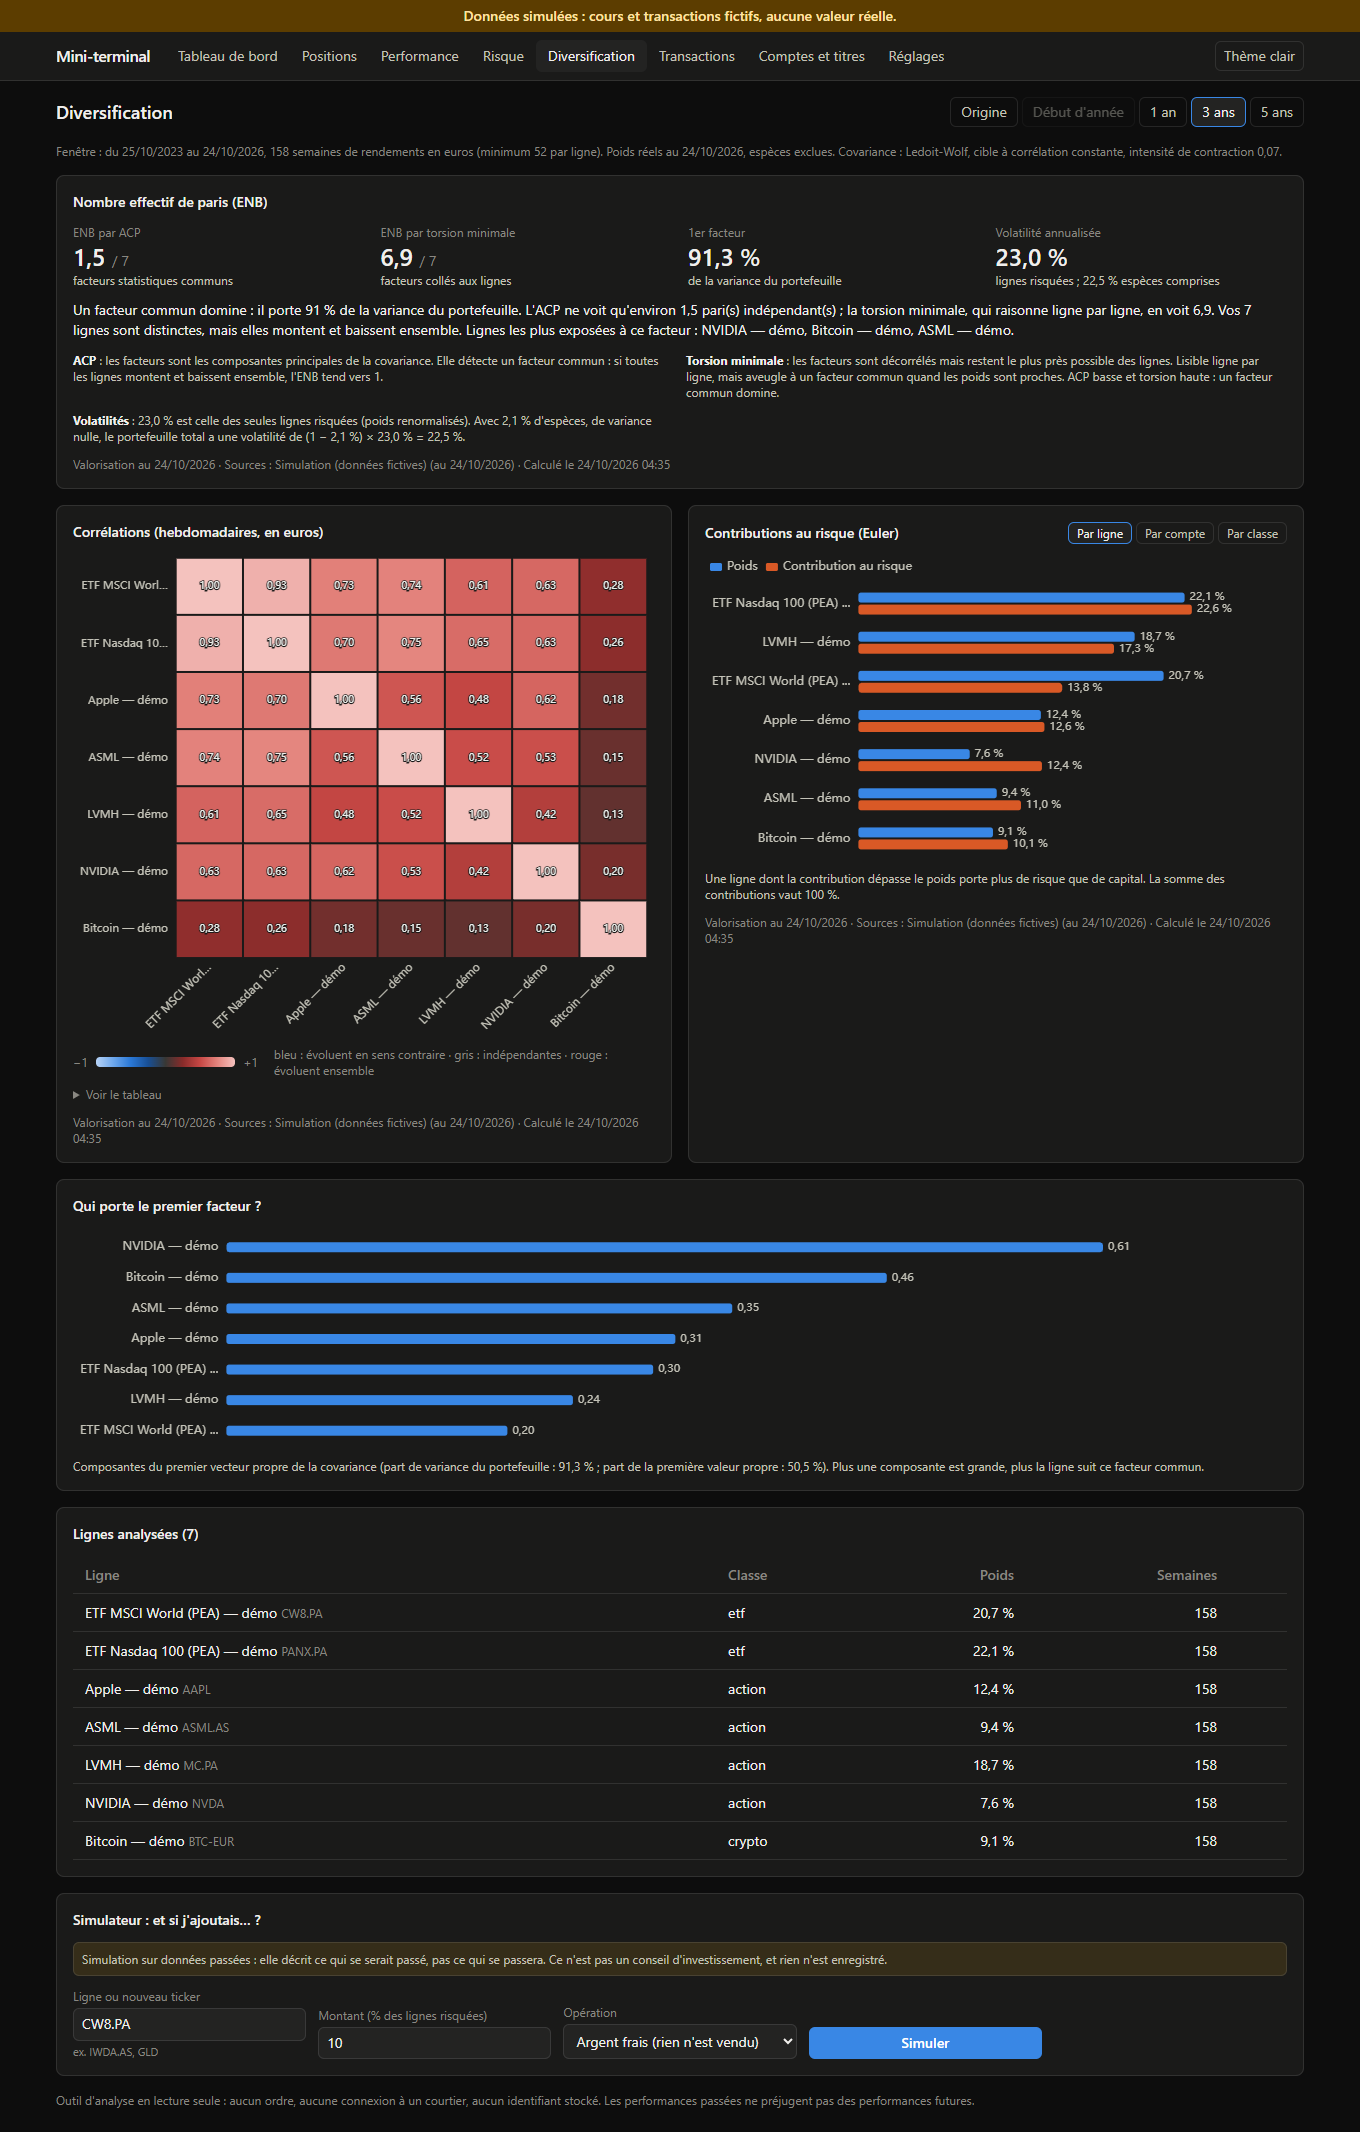
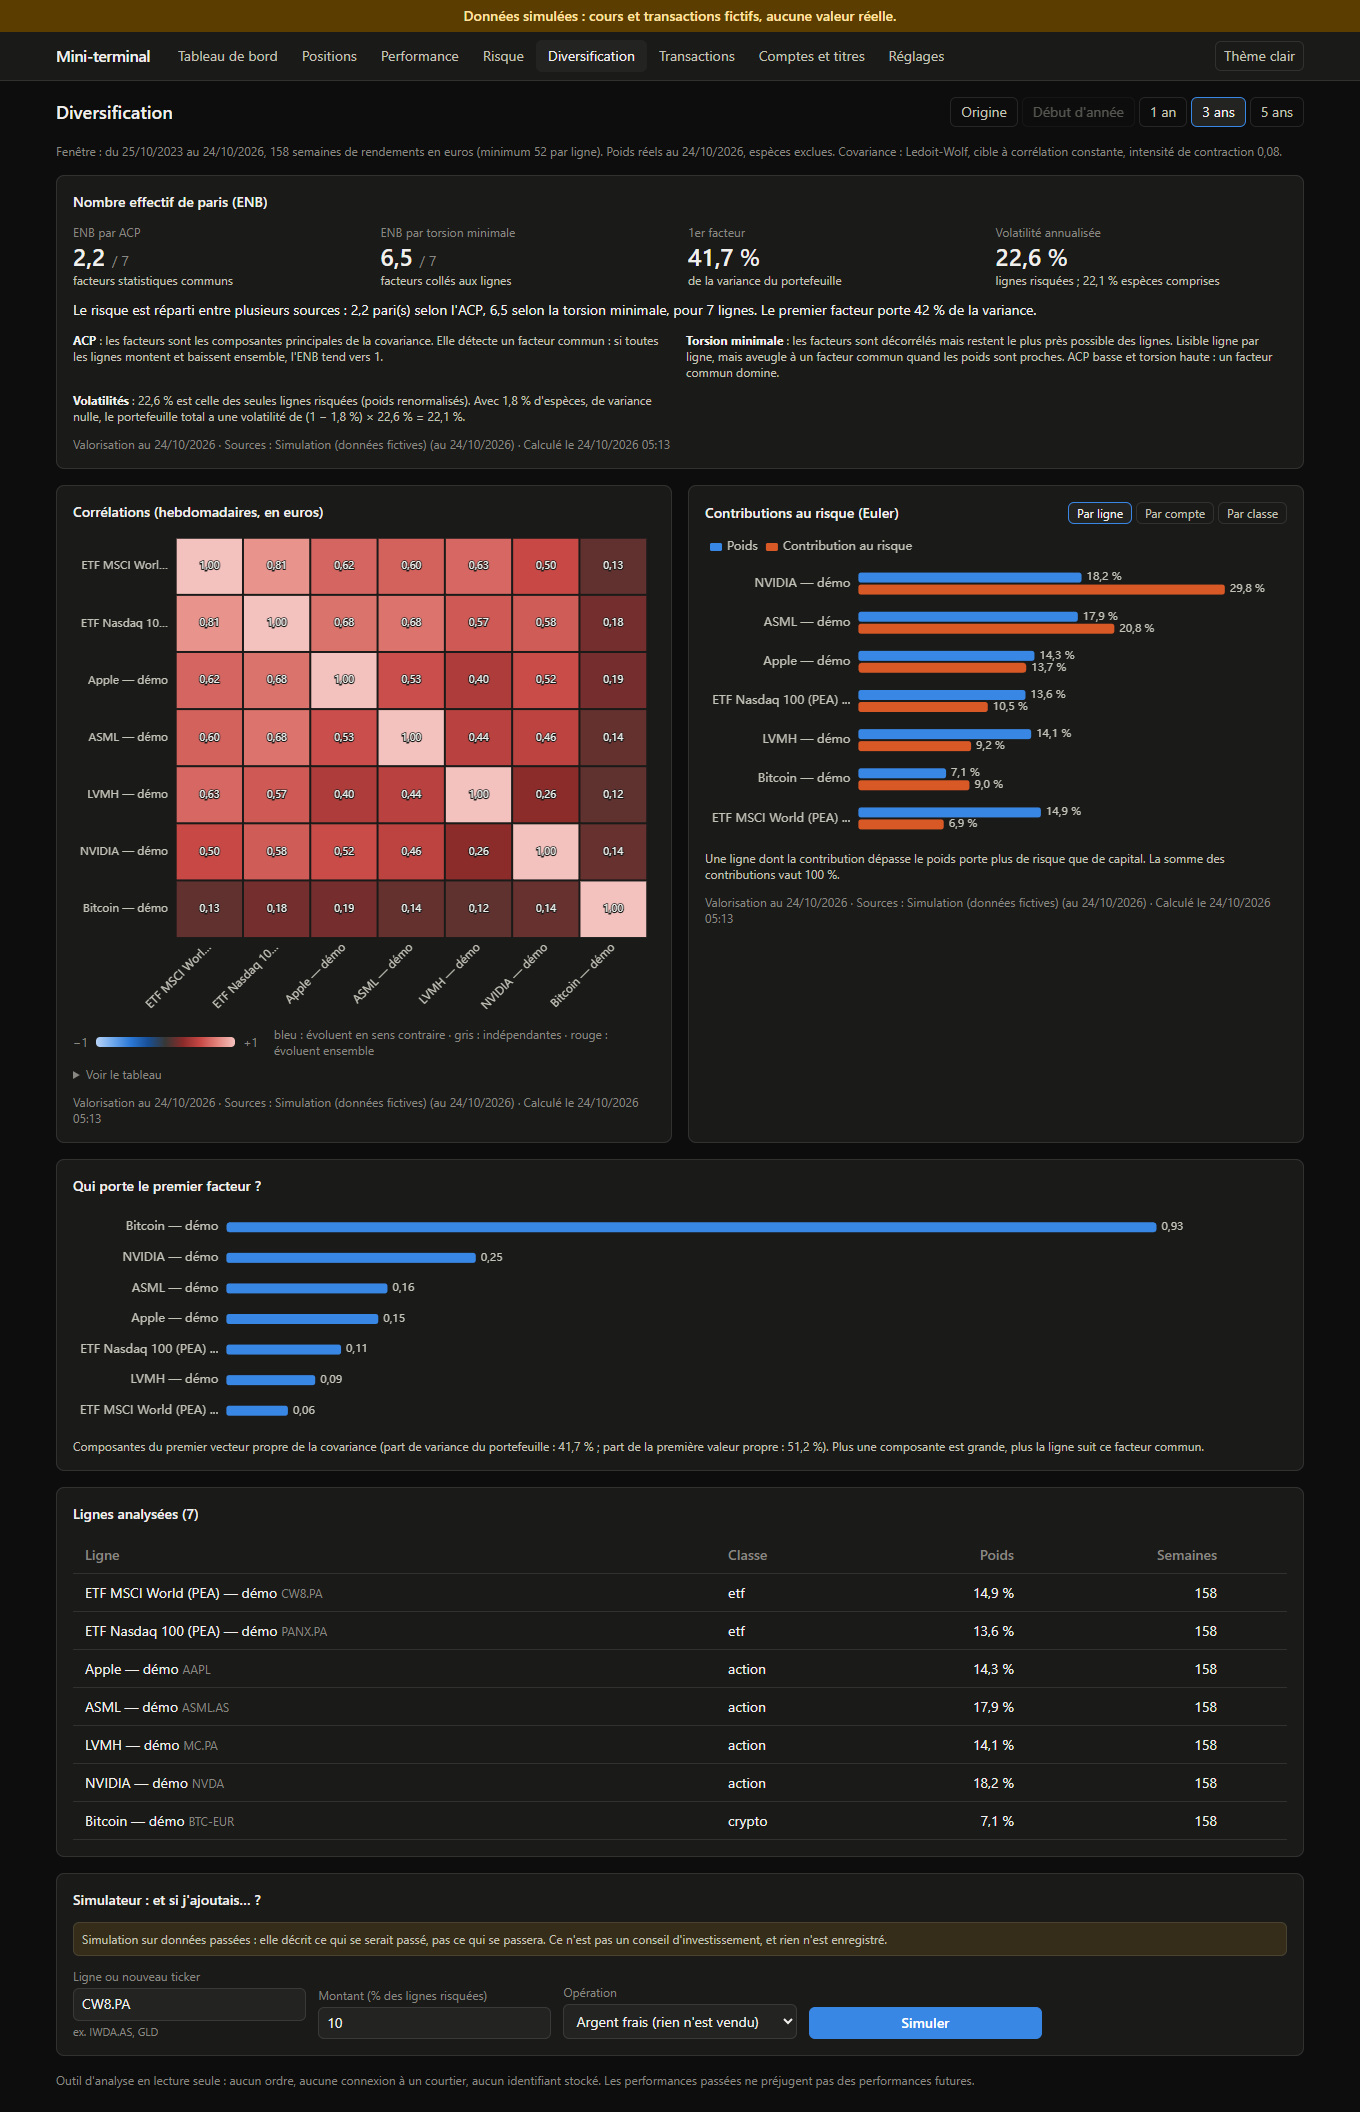
Démo : modèle à deux facteurs (marché mondial + technologie)
Le modèle à un facteur surestimait la corrélation Nasdaq / MSCI World (0,96).
Un facteur technologie indépendant, tiré d'un générateur séparé, la ramène à
0,86 en hebdomadaire EUR (0,85 à 0,90 en réalité). Profil à trois paramètres
inchangé au bit près (rapport legacy). Nouvelle graine selon les mêmes
critères (56). Tests : corrélation théorique retrouvée sur un long
échantillon, structure des corrélations de la démo. Captures régénérées.

diff --git a/terminal/marketdata/simulated.py b/terminal/marketdata/simulated.py
@@ -1,7 +1,7 @@
 """
 Fournisseur simulé : tests et mode démo, sans réseau.
 
-Les cours viennent de `data.demo_prices` (modèle à un facteur, queues
+Les cours viennent de `data.demo_prices` (modèle à deux facteurs, queues
 épaisses). Ils sont générés une fois sur une fenêtre fixe, puis découpés :
 le cours d'un ticker à une date donnée ne dépend donc ni de la date de la
 requête ni des autres tickers demandés. Toutes les séries portent
@@ -25,19 +25,21 @@ from .base import InstrumentInfo, MarketDataProvider, PriceSeries, clean_series
 SIM_START = "2015-01-01"
 SIM_END = "2030-12-31"
 
-# Profils de long terme (rendement espéré mu, volatilité sigma, bêta au facteur commun de
-# volatilité 20 %). Les ETF d'un même indice ont un bêta qui porte presque toute leur
-# variance : corrélation hebdomadaire d'environ 0,96, comme dans la réalité.
+# Profils de long terme (rendement espéré mu, volatilité sigma, bêta au marché mondial, bêta au
+# facteur technologie ; les deux facteurs sont indépendants, de volatilité 20 %). Le facteur
+# technologie sépare le Nasdaq du MSCI World : corrélation hebdomadaire en EUR d'environ 0,86,
+# au lieu de 0,96 avec un seul facteur (0,85 à 0,90 en réalité). Deux ETF d'un même indice
+# gardent une corrélation supérieure à 0,9.
 SIM_PROFILE = {
-    "QQQ":     (0.14, 0.22, 1.10),
-    "PANX.PA": (0.13, 0.23, 1.14),
-    "IWDA.AS": (0.09, 0.15, 0.75),
-    "CW8.PA":  (0.09, 0.15, 0.75),
-    "AAPL":    (0.15, 0.28, 1.10),
-    "MC.PA":   (0.09, 0.27, 0.80),
-    "ASML.AS": (0.14, 0.35, 1.30),
-    "NVDA":    (0.30, 0.50, 1.60),
-    "BTC-EUR": (0.30, 0.65, 0.60),
+    "QQQ":     (0.14, 0.21, 0.85, 0.60),
+    "PANX.PA": (0.13, 0.22, 0.87, 0.62),
+    "IWDA.AS": (0.09, 0.15, 0.72, 0.12),
+    "CW8.PA":  (0.09, 0.15, 0.72, 0.12),
+    "AAPL":    (0.15, 0.28, 0.90, 0.60),
+    "MC.PA":   (0.09, 0.27, 0.85, 0.00),
+    "ASML.AS": (0.14, 0.35, 1.00, 0.90),
+    "NVDA":    (0.30, 0.50, 1.20, 1.20),
+    "BTC-EUR": (0.30, 0.65, 0.75, 0.65),
 }
 
 # Une trajectoire simulée reste un tirage. La graine est la première (en partant de 0)
@@ -46,7 +48,7 @@ SIM_PROFILE = {
 #   indices : 3 % à 18 % par an, volatilité 12 % à 28 % ;
 #   actions : -10 % à 35 % par an, volatilité 18 % à 60 % ;
 #   bitcoin : 5 % à 60 % par an, volatilité 45 % à 80 %, au plus +300 % sur les 3 dernières années.
-SIM_SEED = 0
+SIM_SEED = 56
 PLAUSIBLE = {"index": (0.03, 0.18, 0.12, 0.28), "stock": (-0.10, 0.35, 0.18, 0.60),
              "btc": (0.05, 0.60, 0.45, 0.80)}
 KIND = {"QQQ": "index", "PANX.PA": "index", "IWDA.AS": "index", "CW8.PA": "index", "AAPL": "stock",

diff --git a/terminal/data.py b/terminal/data.py
@@ -131,12 +131,15 @@ DEMO_PROFILE = {
 def demo_prices(tickers: list[str], start: str, end: str | None = None,
                 seed: int = 7, profile: dict | None = None) -> pd.DataFrame:
     """
-    Modèle à un facteur avec queues épaisses :
-        r_i,t = mu_i,d + beta_i * f_t + e_i,t
-    `profile` : paramètres (mu, sigma, bêta) par ticker ; DEMO_PROFILE par défaut.
-    f_t et e_i,t suivent des lois de Student à 4 degrés de liberté, normalisées
-    à variance unité puis mises à l'échelle. Ces données sont FICTIVES :
-    elles servent à tester le code, pas à prendre une décision.
+    Modèle à deux facteurs avec queues épaisses :
+        r_i,t = mu_i,d + beta_i * f_t + gamma_i * g_t + e_i,t
+    f_t : marché mondial ; g_t : facteur technologie, indépendant de f_t ; même volatilité de 20 %.
+    `profile` : (mu, sigma, bêta) ou (mu, sigma, bêta, gamma) par ticker ; DEMO_PROFILE par défaut.
+    Sans gamma (profil à trois paramètres), le modèle est celui à un facteur d'origine et les cours
+    sont identiques au bit près : g_t vient d'un générateur séparé qui ne décale pas les tirages.
+    f_t, g_t et e_i,t suivent des lois de Student à 4 degrés de liberté, normalisées à variance unité
+    puis mises à l'échelle. Ces données sont FICTIVES : elles servent à tester le code, pas à prendre
+    une décision.
     """
     rng = np.random.default_rng(seed)
     idx = pd.bdate_range(start=start, end=end or pd.Timestamp.today().normalize())
@@ -146,13 +149,15 @@ def demo_prices(tickers: list[str], start: str, end: str | None = None,
 
     sigma_f = 0.20 / np.sqrt(A)
     f = rng.standard_t(nu, n) * scale_t * sigma_f
+    g = np.random.default_rng([seed, 1]).standard_t(nu, n) * scale_t * sigma_f
 
     cols = {}
     for t in tickers:
-        mu, sig, b = (DEMO_PROFILE if profile is None else profile).get(t, (0.08, 0.25, 0.8))
+        mu, sig, b, *rest = (DEMO_PROFILE if profile is None else profile).get(t, (0.08, 0.25, 0.8))
+        gam = rest[0] if rest else 0.0
         sig_d = sig / np.sqrt(A)
-        idio_var = max(sig_d ** 2 - (b * sigma_f) ** 2, (0.2 * sig_d) ** 2)
+        idio_var = max(sig_d ** 2 - (b ** 2 + gam ** 2) * sigma_f ** 2, (0.2 * sig_d) ** 2)
         e = rng.standard_t(nu, n) * scale_t * np.sqrt(idio_var)
-        r = mu / A - 0.5 * sig_d ** 2 + b * f + e
+        r = mu / A - 0.5 * sig_d ** 2 + b * f + gam * g + e
         cols[t] = 100.0 * np.exp(np.cumsum(r))
     return pd.DataFrame(cols, index=idx)

diff --git a/tests/test_marketdata.py b/tests/test_marketdata.py
@@ -226,3 +226,35 @@ def test_demo_universe_is_plausible(sim):
     assert b3.iloc[-1] / b3.iloc[0] - 1 <= 3.0
     w = px.resample("W-FRI").last().pct_change().dropna().corr()
     assert w.loc["QQQ", "PANX.PA"] > 0.9 and w.loc["IWDA.AS", "CW8.PA"] > 0.9
+
+
+def test_demo_two_factor_correlations(sim):
+    # Le facteur technologie sépare le Nasdaq du MSCI World (corrélations hebdomadaires en EUR).
+    px = sim._prices.loc["2021-01-04":"2026-10-23"].copy()
+    fx = sim.fx_rates("USD", date(2021, 1, 1), date(2026, 10, 23)).closes
+    for t in ("QQQ", "AAPL", "NVDA"):
+        px[t] = px[t] * fx.reindex(px.index).ffill()
+    w = px.resample("W-FRI").last().pct_change().dropna().corr()
+    assert 0.80 <= w.loc["QQQ", "IWDA.AS"] <= 0.92
+    assert w.loc["QQQ", "IWDA.AS"] < w.loc["IWDA.AS", "CW8.PA"]
+    assert w.loc["NVDA", "QQQ"] > w.loc["NVDA", "IWDA.AS"]          # exposition technologie
+    assert w.loc["MC.PA", "IWDA.AS"] > w.loc["MC.PA", "QQQ"]        # aucune exposition technologie
+
+
+def test_demo_prices_two_factor_model():
+    import numpy as np
+    from terminal import data
+    # Sans bêta technologie, le modèle est exactement celui à un facteur d'origine.
+    three = {"A": (0.08, 0.20, 0.9), "B": (0.10, 0.30, 1.2)}
+    four = {k: (*v, 0.0) for k, v in three.items()}
+    assert data.demo_prices(list(three), "2020-01-01", "2022-12-31", profile=three).equals(
+        data.demo_prices(list(four), "2020-01-01", "2022-12-31", profile=four))
+    # Sur un long échantillon, la corrélation retrouve la valeur théorique
+    # rho = 0,2^2 (b_i b_j + g_i g_j) / (sigma_i sigma_j).
+    prof = {"W": (0.0, 0.15, 0.72, 0.12), "N": (0.0, 0.21, 0.85, 0.60), "T": (0.0, 0.50, 1.20, 1.20)}
+    r = np.log(data.demo_prices(list(prof), "1900-01-01", "1999-12-31", seed=3, profile=prof)).diff().dropna()
+    c = r.corr()
+    for i, j in (("W", "N"), ("W", "T"), ("N", "T")):
+        th = 0.04 * (prof[i][2] * prof[j][2] + prof[i][3] * prof[j][3]) / (prof[i][1] * prof[j][1])
+        assert c.loc[i, j] == pytest.approx(th, abs=0.02), (i, j)
+

diff --git a/METHODE.md b/METHODE.md
@@ -219,8 +219,17 @@ au hasard, 40 échantillons par cas (moyenne ± écart-type).
 Lecture : l'ENB par ACP, dominé par le premier facteur, est peu sensible à l'estimateur. Avec 150 semaines, les trois
 estimateurs se valent. Quand l'historique raccourcit (60 semaines), la cible identité **surestime** l'ENB par ACP et
 augmente la dispersion. La corrélation constante reste la plus proche de la vérité et la plus stable. Sur le portefeuille
-de démonstration (7 lignes, 1 an au 24/10/2026), l'ENB par ACP vaut 1,34 avec la corrélation constante, **1,41** avec
-l'identité et 1,33 avec l'empirique.
+de démonstration (7 lignes, 1 an au 24/10/2026, modèle à deux facteurs), l'ENB par ACP vaut 2,17 avec la corrélation
+constante, 2,12 avec l'identité et 2,08 avec l'empirique. Ici la cible identité ne gonfle pas l'ENB : elle rapproche
+aussi les variances, ce qui réduit le poids du bitcoin (volatilité 65 %) dans le premier facteur. Sur un seul
+échantillon, l'écart entre estimateurs reste inférieur à l'erreur d'estimation.
+
+**Données de démonstration.** Modèle à deux facteurs indépendants (marché mondial et technologie, volatilité 20 %
+chacun), plus un bruit propre à chaque ligne, avec des queues épaisses (Student à 4 degrés de liberté). La corrélation
+théorique vaut $\rho_{ij} = 0{,}2^2\,(\beta_i\beta_j + \gamma_i\gamma_j)/(\sigma_i\sigma_j)$, avec $\beta$ l'exposition
+au marché et $\gamma$ l'exposition à la technologie (testé sur un long échantillon). Le facteur technologie sépare le
+Nasdaq du MSCI World : corrélation hebdomadaire en EUR de 0,86 sur 2021-2026, au lieu de 0,96 avec un seul facteur
+(environ 0,85 à 0,90 en réalité). Ces données sont fictives.
 
 **Mesures.** Celles de `metrics.py` (`risk_contributions`, `pca_diversification`, `minimum_torsion_diversification`),
 auxquelles on passe la covariance estimée (paramètre `cov`). Contributions d'Euler par ligne. Par compte et par classe,

diff --git a/README.md b/README.md
@@ -69,7 +69,7 @@ La base SQLite est conservée dans le volume `mt-data`.
 ### Tests
 
 ```powershell
-.venv\Scripts\python -m pytest --cov      # 232 tests ; couverture du module de calcul : 98 %
+.venv\Scripts\python -m pytest --cov      # 234 tests ; couverture du module de calcul : 98 %
 cd frontend; npx tsc -p .                # vérification des types
 ```
 
@@ -190,8 +190,9 @@ Méthode de calcul détaillée : [`METHODE.md`](METHODE.md).
   - avec des lignes à historique partiel, la covariance par paires suivie de la projection de Higham est une
     adaptation, signalée par un garde-fou ;
   - l'ENB par ACP est instable quand les valeurs propres sont proches (portefeuille déjà diversifié) ;
-  - la démo, à un seul facteur commun, surestime la corrélation entre Nasdaq et MSCI World (0,96 contre environ 0,85
-    à 0,90 en réalité).
+  - la démo suit un modèle à deux facteurs (marché mondial et technologie). Ses ETF cotés en euros n'ont pas
+    d'exposition au dollar : la corrélation entre QQQ converti en EUR et l'ETF Nasdaq du PEA est de 0,91, contre
+    environ 0,99 en réalité.
 - **Bases d'annualisation** : rendement annualisé en jours calendaires (365), volatilité et ratios en séances (252)
   ou en semaines (52), selon la convention de chaque mesure.
 - **Petits écarts d'arrondi** entre la courbe de valeur (flottants) et les totaux (`Decimal`) : au plus
